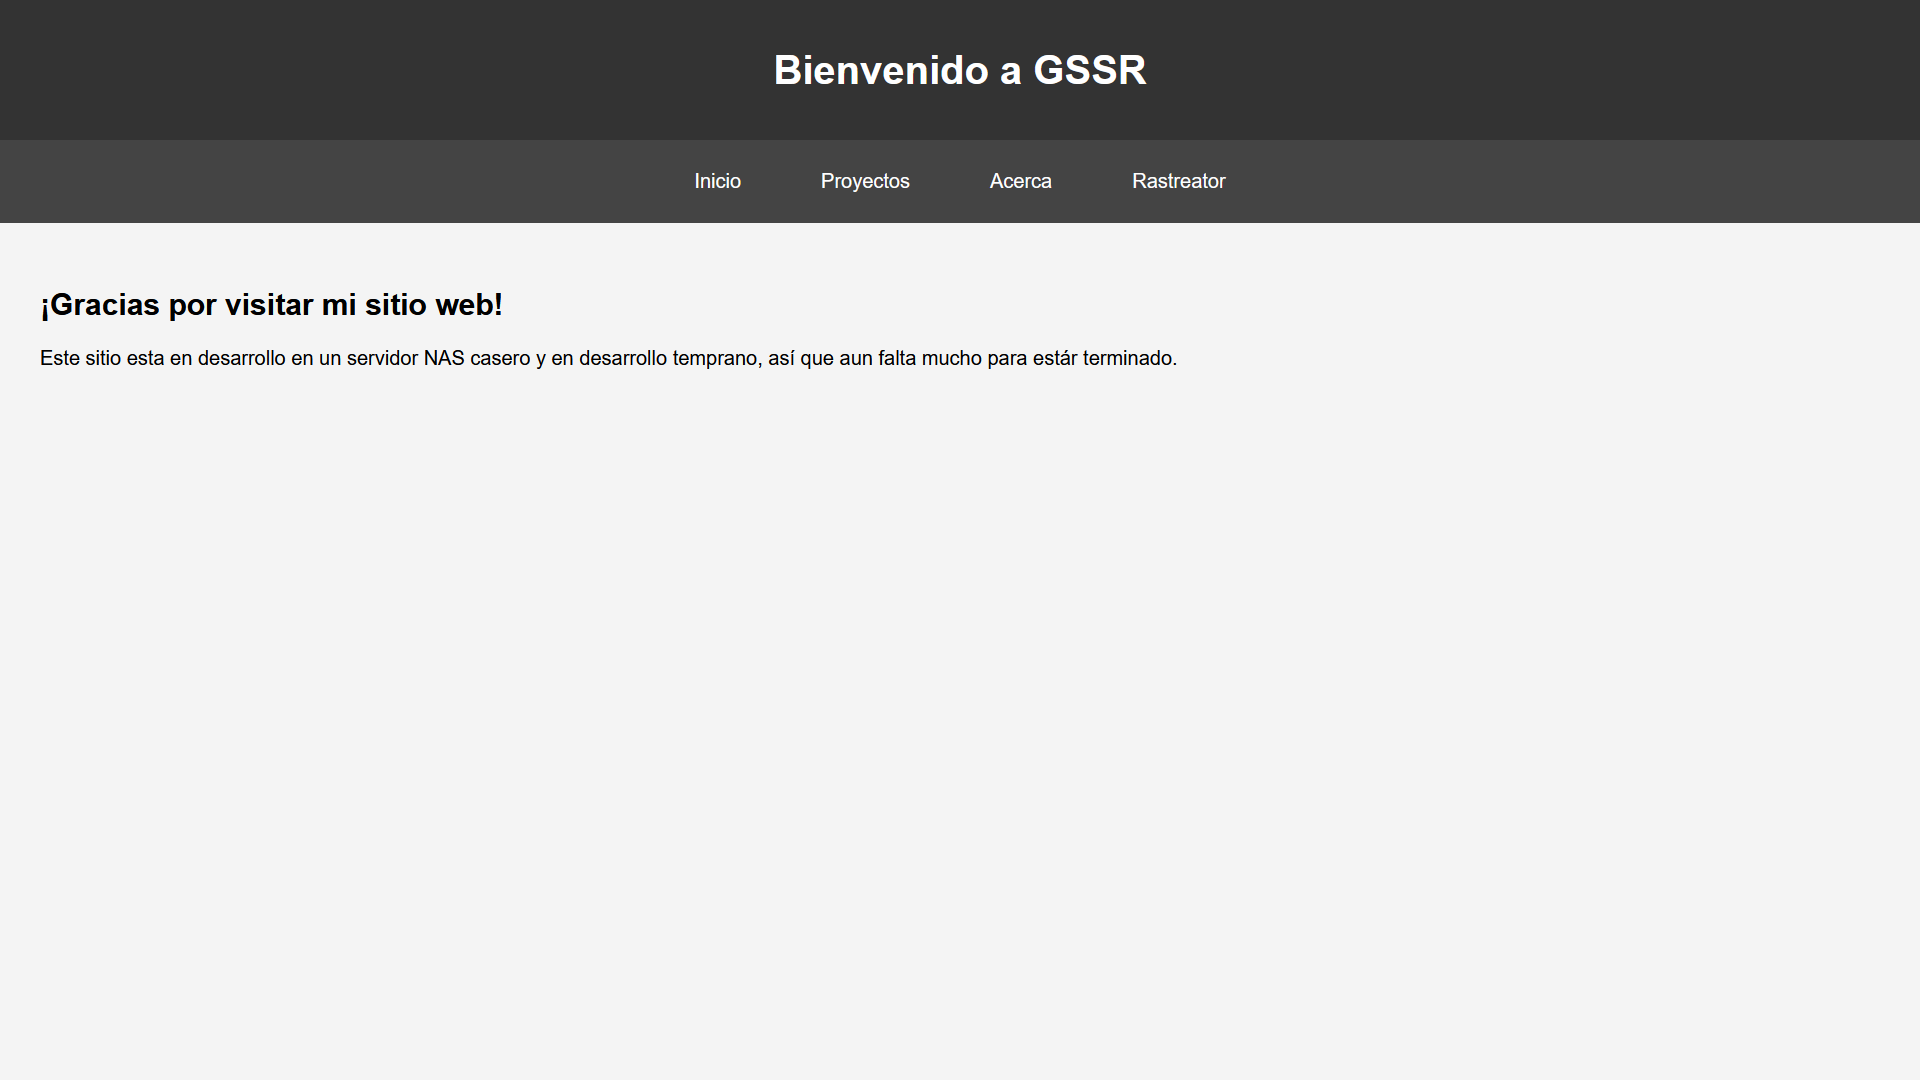
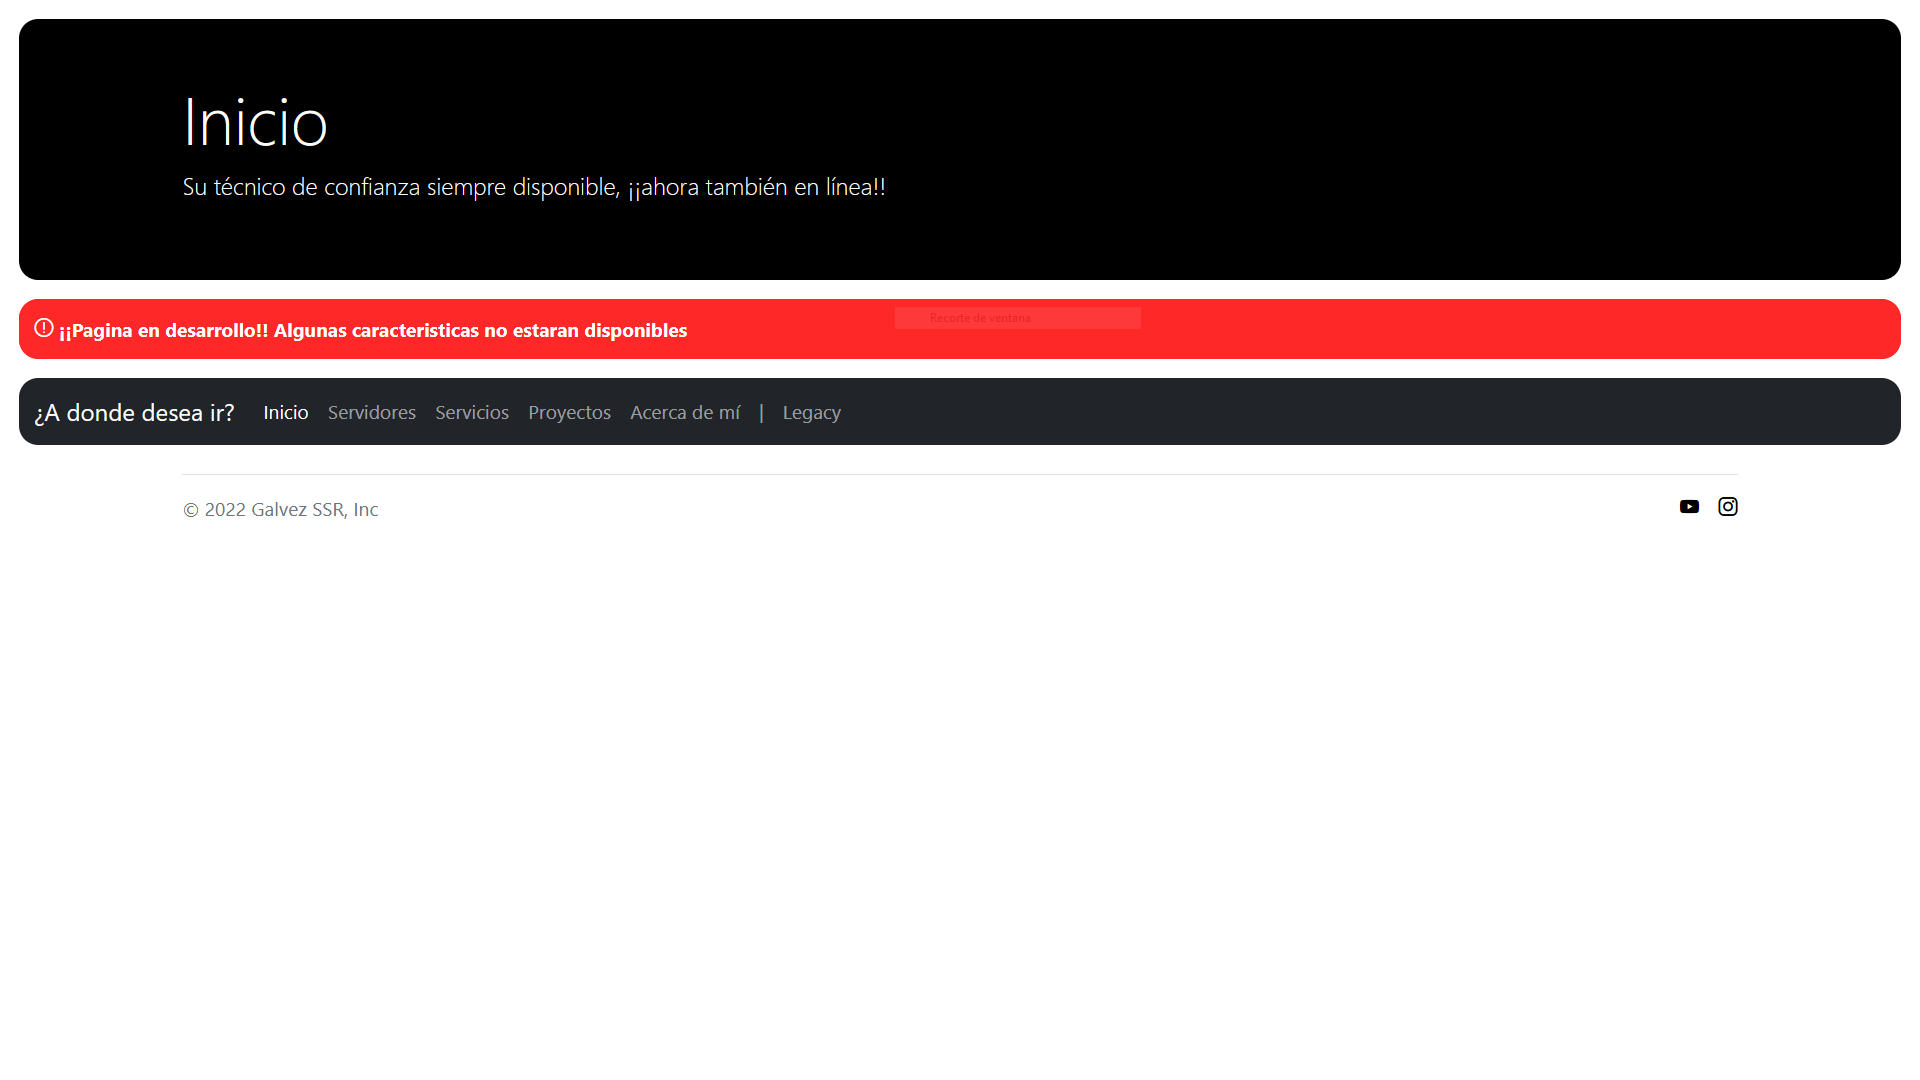
Small cold update, only text and documents

diff --git a/js/languages/es.js b/js/languages/es.js
@@ -36,7 +36,11 @@ export default {
     startSmallDescription: "<span>+5 años desarrollando software. </span><strong>Desarrollador multiplataforma | Android - KMP - SpringBoot</strong>. Desde Sevilla, España. Especializado en soluciones móviles y backend API Rest.",
 
     startLaboralExperience: "Experiencia laboral",
-    startLaboralExperience_5_Date: "Marzo 2025 - Actualidad",
+
+    startLaboralExperience_6_Date: "Enero 2026 - Actualidad",
+    startLaboralExperience_6_Name: "Desarrollador de software multiplataforma",
+    startLaboralExperience_6_Content: "<p>Desarrollador de aplicaciones multiplataforma utilizando Java en entornos como Spring Boot, Quarkus y tecnologías como qRPC para comunicaciones asíncronas usando buenas practicas de desarrollo como los principios SOLID, DRY y CleanCode, entre otros.</p>",
+    startLaboralExperience_5_Date: "Marzo 2025 - Enero 2026",
     startLaboralExperience_5_Name: "Freelancer en desarrollo multiplataforma",
     startLaboralExperience_5_Content: "<p>Aprendizaje autodidacta orientado al desarrollo multiplataforma mediante Kotlin Multiplatform y Compose Multiplatform, trasladando la esencia del desarrollo Android nativo hacia un entorno capaz de escalar a múltiples dispositivos, incluyendo iOS, desktop y web.</p><p>También incluyo la profundización en ecosistemas backend con Spring Boot, aplicando arquitecturas robustas como arquitectura por capas y arquitectura hexagonal combinada con principios de Domain-Driven Design (DDD). Asimismo, he incorporado prácticas esenciales como autenticación con JWT, sistema de seguridad con Spring Security, cifrado BCrypt, paginación (Paging), y principios SOLID junto con pautas de Clean Code para garantizar mantenibilidad, escalabilidad y buenas prácticas de ingeniería de software.</p>",
     startLaboralExperience_4_Date: "Septiembre 2024 - Marzo 2025",
@@ -184,9 +188,12 @@ export default {
     aboutHistoryContent_3: "Rediseño completo de la interfaz y reconstrucción del código, abandono de Bootstrap y AnimateCSS, y renombrado a 'El estudio de Gálvez'.",
     aboutHistoryDate_3: "Octubre 2024 - Julio 2025",
     aboutHistoryTitle_2: "GSSR Web - Versión 0.2.11",
-    aboutHistoryContent_2: "Desarrollo completo de GSSR Web, orientación a objetos en JavaScript, kernel modular basado en funciones, integración local de Bootstrap 5.2.3 y AnimateCSS 4.1.1.",
-    aboutHistoryDate_2: "Septiembre 2022 - Octubre 2024",
-    aboutHistoryTitle_1: "GSSR Web - Versión 0.1.1",
+    aboutHistoryContent_2: "Desarrollo completo de GSSR Web, orientación a objetos, motor JavaScript customizado basado en funciones, integración local de Bootstrap 5.2.3 y AnimateCSS 4.1.1.",
+    aboutHistoryDate_2: "Enero 2023 - Octubre 2024",
+    aboutHistoryTitle_1_1: "GSSR Web - Versión 0.1.1",
+    aboutHistoryContent_1_1: "Actualización de la interfaz y desarrollo prematuro del motor JavaScript customizado.",
+    aboutHistoryDate_1_1: "Septiembre 2022 - Enero 2023",
+    aboutHistoryTitle_1: "GSSR Web - Versión 0.1.0",
     aboutHistoryContent_1: "Nacimiento de GSSR Web, diseño y desarrollo de la estructura básica.",
     aboutHistoryDate_1: "Agosto 2022 - Septiembre 2022",
     aboutHistorySeeImage: "Ver imagen",

diff --git a/js/languages/en.js b/js/languages/en.js
@@ -36,7 +36,10 @@ export default {
     startSmallDescription: "<span>Over 5 years developing software. </span><strong>Multiplatform Developer | Android - KMP - SpringBoot</strong>. Based in Seville, Spain. Specialized in mobile and backend API Rest solutions.",
 
     startLaboralExperience: "Work Experience",
-    startLaboralExperience_5_Date: "March 2025 - Present",
+    startLaboralExperience_6_Date: "January 2026 - Present",
+    startLaboralExperience_6_Name: "Multiplatform Software Developer",
+    startLaboralExperience_6_Content: "<p>Developing multiplatform applications using Java in environments such as Spring Boot, Quarkus and technologies such as qRPC for asynchronous communications using good development practices such as SOLID, DRY and CleanCode principles, among others.</p>",    
+    startLaboralExperience_5_Date: "March 2025 - Januray 2026",
     startLaboralExperience_5_Name: "Freelance Mobile Developer",
     startLaboralExperience_5_Content: "<p>Self-directed learning focused on cross-platform development using Kotlin Multiplatform and Compose Multiplatform, transferring the essence of native Android development to an environment capable of scaling to multiple devices, including iOS, desktop and web.</p><p>I also include in-depth study of backend ecosystems with Spring Boot, applying robust architectures such as layered and hexagonal architectures combined with Domain-Driven Design (DDD) principles. Furthermore, I have incorporated essential practices such as JWT authentication, Spring Security, BCrypt encryption, paging, and SOLID principles along with Clean Code guidelines to ensure maintainability, scalability, and good software engineering practices.</p>",    
     startLaboralExperience_4_Date: "September 2024 - March 2025",
@@ -184,9 +187,12 @@ export default {
     aboutHistoryContent_3: "Full UI redesign and code rebuild, dropped Bootstrap and AnimateCSS, and renamed to 'El estudio de Gálvez'.",
     aboutHistoryDate_3: "October 2024 - July 2025",
     aboutHistoryTitle_2: "GSSR Web - Version 0.2.11",
-    aboutHistoryContent_2: "Full development of GSSR Web, object-oriented JavaScript, function-based modular kernel, local integration of Bootstrap 5.2.3 and AnimateCSS 4.1.1.",
-    aboutHistoryDate_2: "September 2022 - October 2024",
-    aboutHistoryTitle_1: "GSSR Web - Version 0.1.1",
+    aboutHistoryContent_2: "Full development of GSSR Web, object-oriented, function-based JavaScript engine, local integration of Bootstrap 5.2.3 and AnimateCSS 4.1.1.",
+    aboutHistoryDate_2: "January 2023 - October 2024",
+    aboutHistoryTitle_1_1: "GSSR Web - Version 0.1.1",
+    aboutHistoryContent_1_1: "Interface update and premature development of the custom JavaScript engine.",
+    aboutHistoryDate_1_1: "September 2022 - January 2023",
+    aboutHistoryTitle_1: "GSSR Web - Version 0.1.0",
     aboutHistoryContent_1: "Birth of GSSR Web, basic structure design and development.",
     aboutHistoryDate_1: "August 2022 - September 2022",
     aboutHistorySeeImage: "See image",

diff --git a/js/home.js b/js/home.js
@@ -11,7 +11,7 @@ import Html from "./engine.js";
 /////////////////////////////////////////////
 
 const HTML = new Html( "navbarHome" );
-const workState = false; // True if you're working, false if you're looking for a job
+const workState = true; // True if you're working, false if you're looking for a job
 const contactList = [
     {
         text: HTML.strings.linkedin,
@@ -40,6 +40,11 @@ const contactList = [
     }
 ];
 const experience = [
+    {
+      title: HTML.strings.startLaboralExperience_6_Name,
+      date: HTML.strings.startLaboralExperience_6_Date,
+      content: HTML.strings.startLaboralExperience_6_Content
+    },
     {
       title: HTML.strings.startLaboralExperience_5_Name,
       date: HTML.strings.startLaboralExperience_5_Date,

diff --git a/js/about.js b/js/about.js
@@ -24,10 +24,17 @@ const legacyItems = [
         linkText: HTML.strings.aboutHistorySeeImage
     },
     {
+        title: HTML.strings.aboutHistoryTitle_1_1,
+        date: HTML.strings.aboutHistoryDate_1_1,
+        content: HTML.strings.aboutHistoryContent_1_1,
+        link: "../resources/images/digitalvoid/gssr_0.1.1.png",
+        linkText: HTML.strings.aboutHistorySeeImage
+    },
+    {
         title: HTML.strings.aboutHistoryTitle_1,
         date: HTML.strings.aboutHistoryDate_1,
         content: HTML.strings.aboutHistoryContent_1,
-        link: "../resources/images/digitalvoid/gssr_0.1.1.png",
+        link: "../resources/images/digitalvoid/gssr_0.1.0.png",
         linkText: HTML.strings.aboutHistorySeeImage
     }
 ];

diff --git a/js/engine.js b/js/engine.js
@@ -101,7 +101,7 @@ export class Strings {
         // STRINGS
         Object.assign( this, {
             // WEBSITE
-            websiteVersion: "v2.0.3 (2025.10.04)",
+            websiteVersion: "v2.0.4 (2026.02.15)",
             websiteDevelopers: "Alberto Gálvez (galvezsh)",
 
             // NAVBAR
